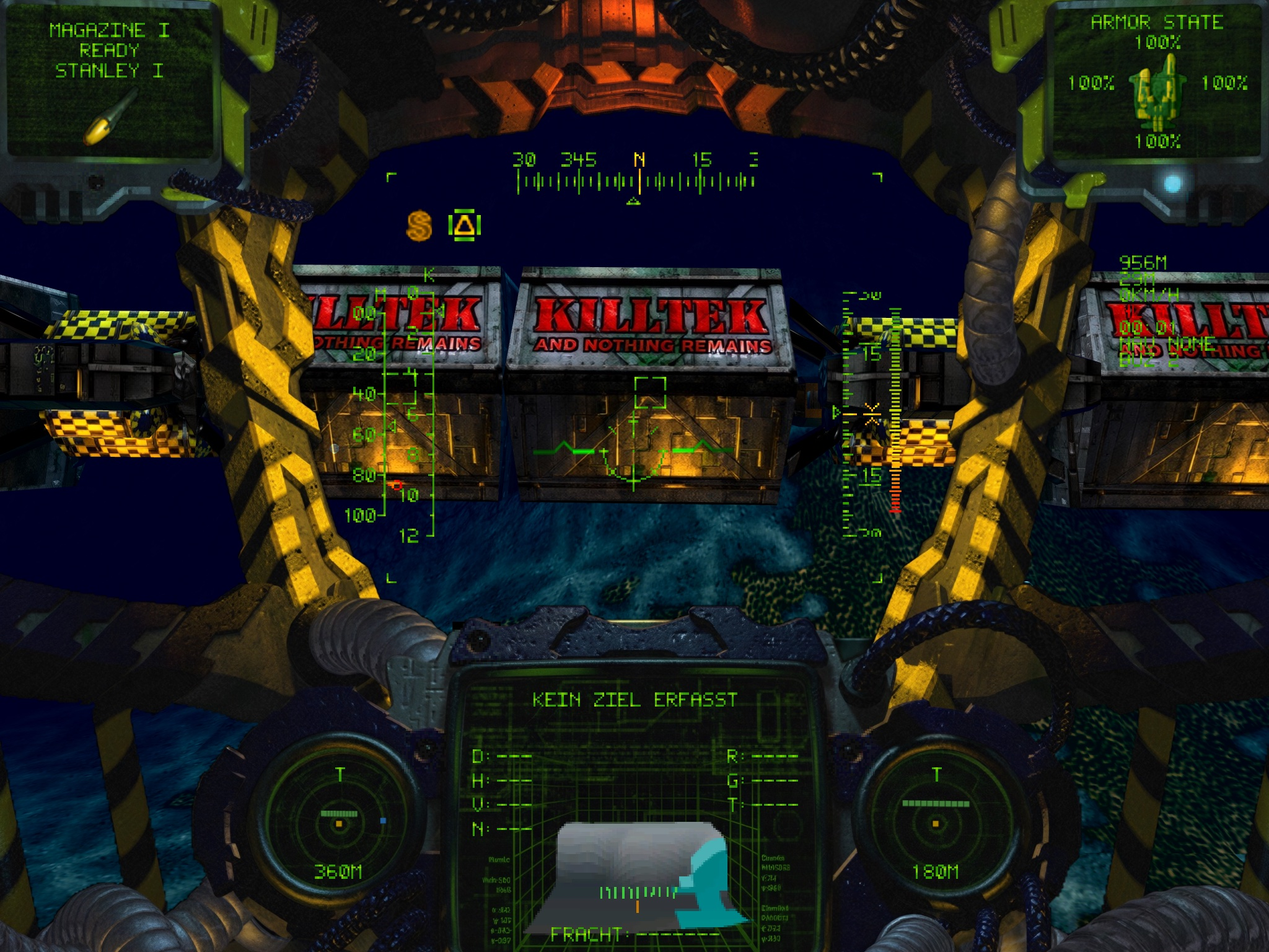
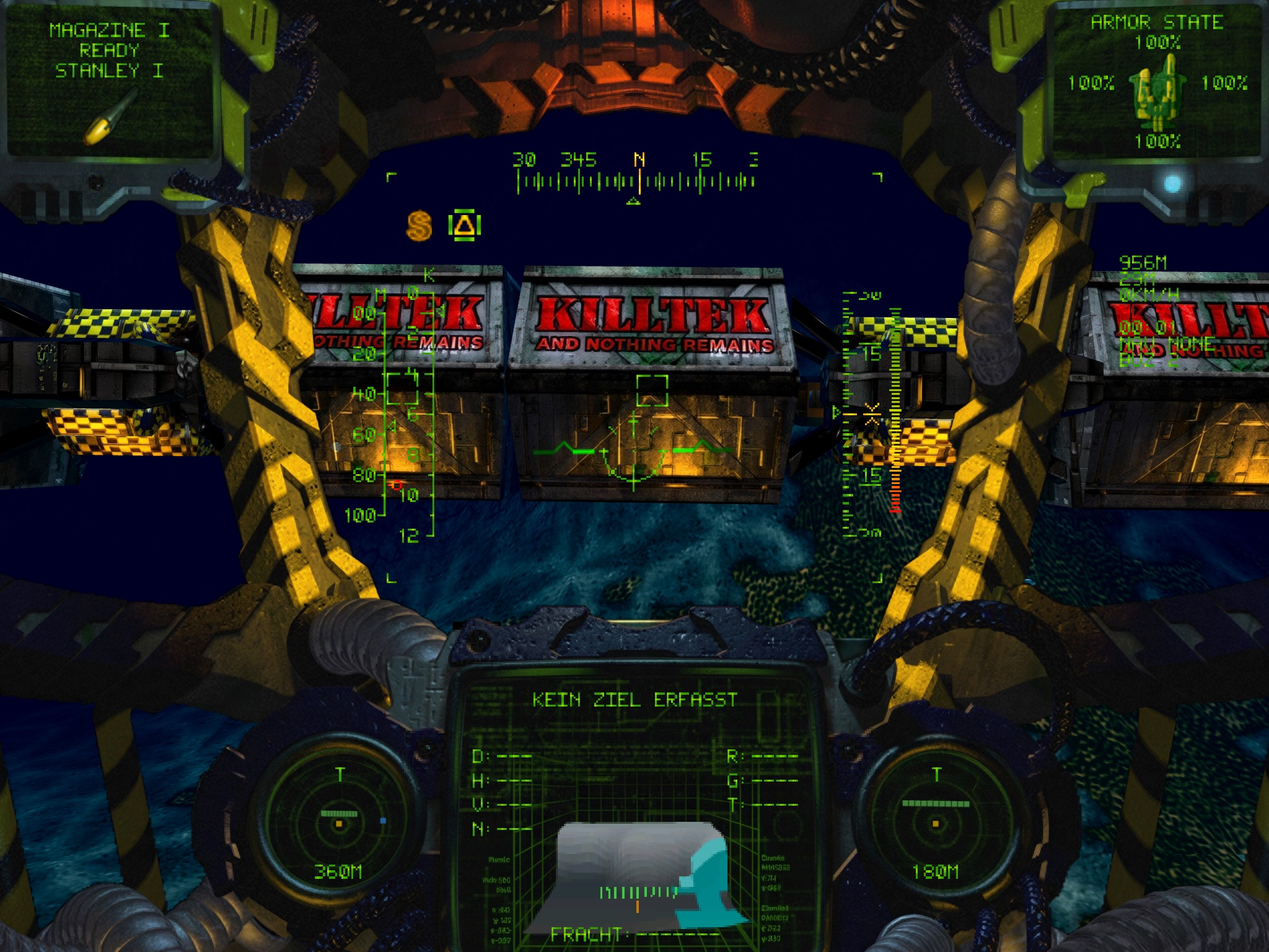
The mission runs in fixed steps of 1/60 s on every display
What the original does once a frame (a gun fires on the frame after the one
in which it is ready, a round's barrels one a frame, a patrol's new point
every frame) went with the display's refresh, so the guns fired faster at
120 Hz than at 60 Hz. The mission now goes on in steps of 1/60 s, one a frame
at 60 Hz and one every other frame at 120 Hz, while the frames still draw at
the display's refresh. Version 0.9.36; the cockpit screenshot is retaken.

diff --git a/src/hud/hud.cpp b/src/hud/hud.cpp
@@ -423,6 +423,7 @@ void HUD::start(fight::Scenario *scenario)
     m_scenario->setBoat(m_boat);
     m_lastTicks = util::ticks();
     m_frames = 0;
+    m_stepTime = 0;
     // (not the time the mission took to load)
     m_frameRate = FrameRate();
     m_frameBegin = std::chrono::steady_clock::time_point();
@@ -504,10 +505,13 @@ void HUD::step(float elapsedTime)
             press(&key);
         }
     }
-    while (elapsedTime > 0.0f) {
-        const float step = std::min(elapsedTime, 0.02f);
-        m_scenario->update(step);
-        elapsedTime -= step;
+    // the mission goes on in its fixed steps (fight::Scenario::Step), as many as the time asks for:
+    // one a frame at 60 Hz, one every other frame at 120 Hz. A step may come up to a quarter of one
+    // early, so that frames a little short or long still get one each
+    m_stepTime += elapsedTime;
+    while (m_stepTime >= 0.75f*fight::Scenario::Step) {
+        m_scenario->update(fight::Scenario::Step);
+        m_stepTime -= fight::Scenario::Step;
     }
 
     updateMissionState();

diff --git a/src/fight/weapons/gun.cpp b/src/fight/weapons/gun.cpp
@@ -30,10 +30,9 @@ namespace fight {
 Gun::GunState* Gun::GunStates = nullptr;
 
 namespace {
-// the original fires the next barrel of an ammo gun's round on the next frame; Vertigo spaces them
-// as at 60 frames a second, with a quarter of that for the frames' jitter (docs/ROADMAP.md,
-// appendix K)
-const float BarrelInterval = 1.0f/60;
+// the original fires the next barrel of an ammo gun's round on the next frame, Vertigo on the
+// mission's next step, with a quarter of one for rounding (docs/ROADMAP.md, appendix K)
+const float BarrelInterval = Scenario::Step;
 const float BarrelTolerance = BarrelInterval/4;
 }
 

diff --git a/src/fight/scenario.h b/src/fight/scenario.h
@@ -59,6 +59,11 @@ public:
     Scenario(const String &name);
     ~Scenario();
 
+    // the mission runs in steps of this length whatever the display's refresh, so the rules that
+    // go once a step (a gun fires on the step after the one in which it is ready, a round's
+    // barrels a step apart, a patrol's new point every step) go the same on every display
+    static constexpr float Step = 1.0f/60;
+
     // the game's difficulty: 0 easy, 1 normal, 2 hard. Units whose "diff" key is higher stay out of the mission.
     static int difficulty();
     static void setDifficulty(int difficulty);

diff --git a/src/hud/hud.h b/src/hud/hud.h
@@ -246,6 +246,7 @@ private:
     std::map<int, input::KeyEvent> m_heldKeys;  // the keys the buttons held stand for
     int m_repeat = -1;      // the button that changes the speed again and again while held
     float m_repeatWait = 0;
+    float m_stepTime = 0;   // the time the mission's steps are behind, below 0 when one came early
     std::unique_ptr<TouchControls> m_touch;
     int m_weaponPage = 0;   // the next of F1-F4 for LB+Up
     bool m_integerScale;

diff --git a/docs/TODO.md b/docs/TODO.md
@@ -47,7 +47,7 @@ Units' behaviour:
 
 - Which of `car` 2 and 6 is left (Vertigo turns 2 left).
 - A tower's salvo in detail (KNOWLEDGE.md 4.3): whether its mountings fire
-  in the same frame or one after the other (Vertigo's one per frame, as a
+  in the same frame or one after the other (Vertigo's one per step, as a
   round's barrels), and whether an energy gun on a tower fires all the
   mountings in one go too (Vertigo's fires one shot per rearming time,
   through the mountings in turn).
@@ -59,6 +59,9 @@ Sensors, HUD and views:
 
 World, physics and effects:
 
+- The original's frame rate, which sets how fast its guns fire (KNOWLEDGE.md
+  4.3): whether it runs in fixed steps of 20 ms (50 a second), however fast
+  the computer is.
 - Why one of S00202's two upward current cells does nothing.
 - How an active mine moves while it chases: how fast, and how far a current
   carries it. Its drive takes currents at a factor of 0.2 against its own
@@ -106,8 +109,12 @@ comparisons above.
   as Vertigo's vertices and normals are its spline's, finer than the
   original's grid; the ground runs straight between the corners only in a
   lifted cell and its eight neighbours.
-- The barrels of a round fire 1/60 s apart whatever the frame rate, as the
-  original's do at 60 frames a second.
+- The mission runs in steps of 1/60 s, one a frame at 60 Hz and one every
+  other frame at 120 Hz. So what the original does once a frame (a gun fires
+  on the frame after the one in which it is ready, a round's barrels one a
+  frame, a patrol's new point every frame) goes as at 60 frames a second on
+  every display; the original's own rate is an open comparison. The world
+  moves on in those steps, also on a faster display.
 - The player's turrets hold their fire while a friend is in the line, in
   front of the target or behind it; the original's fire through friends.
   This one is kept on purpose.
